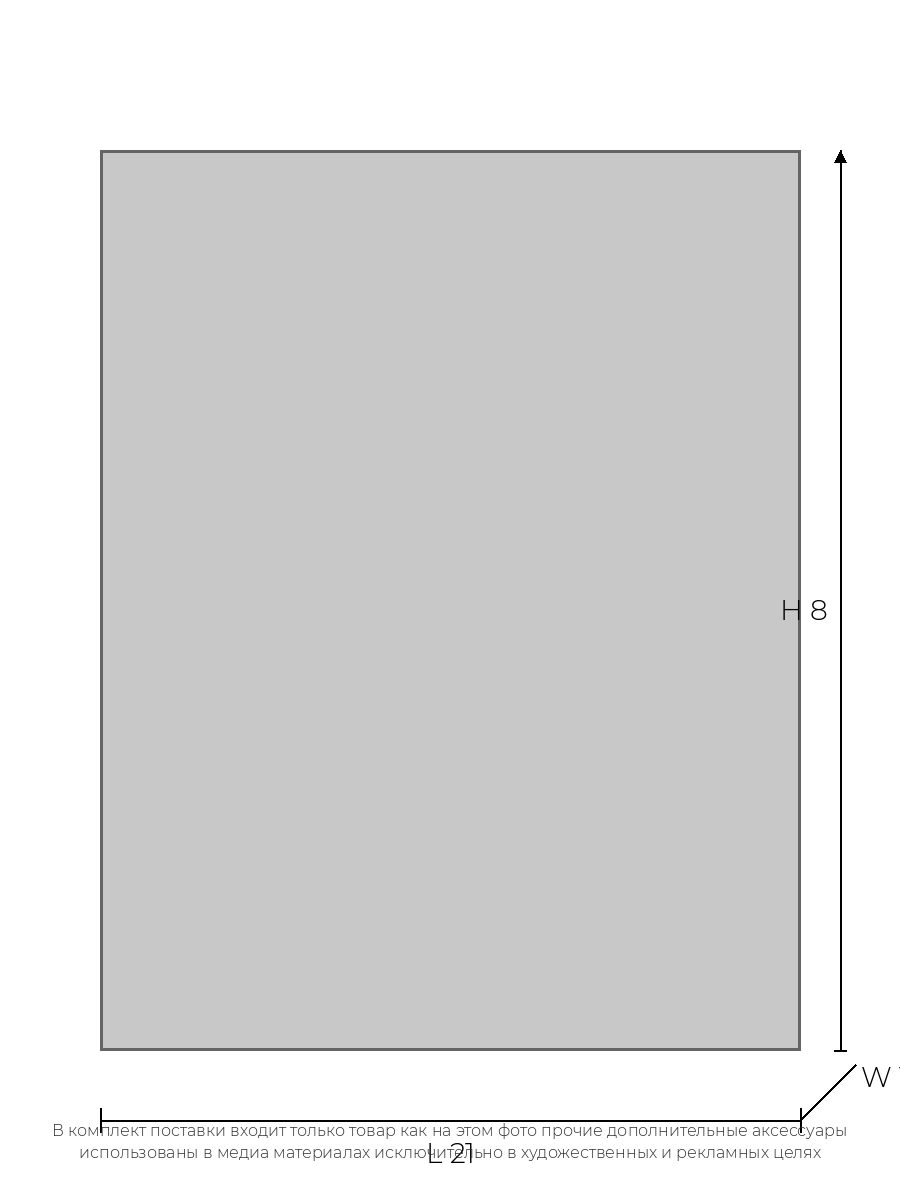
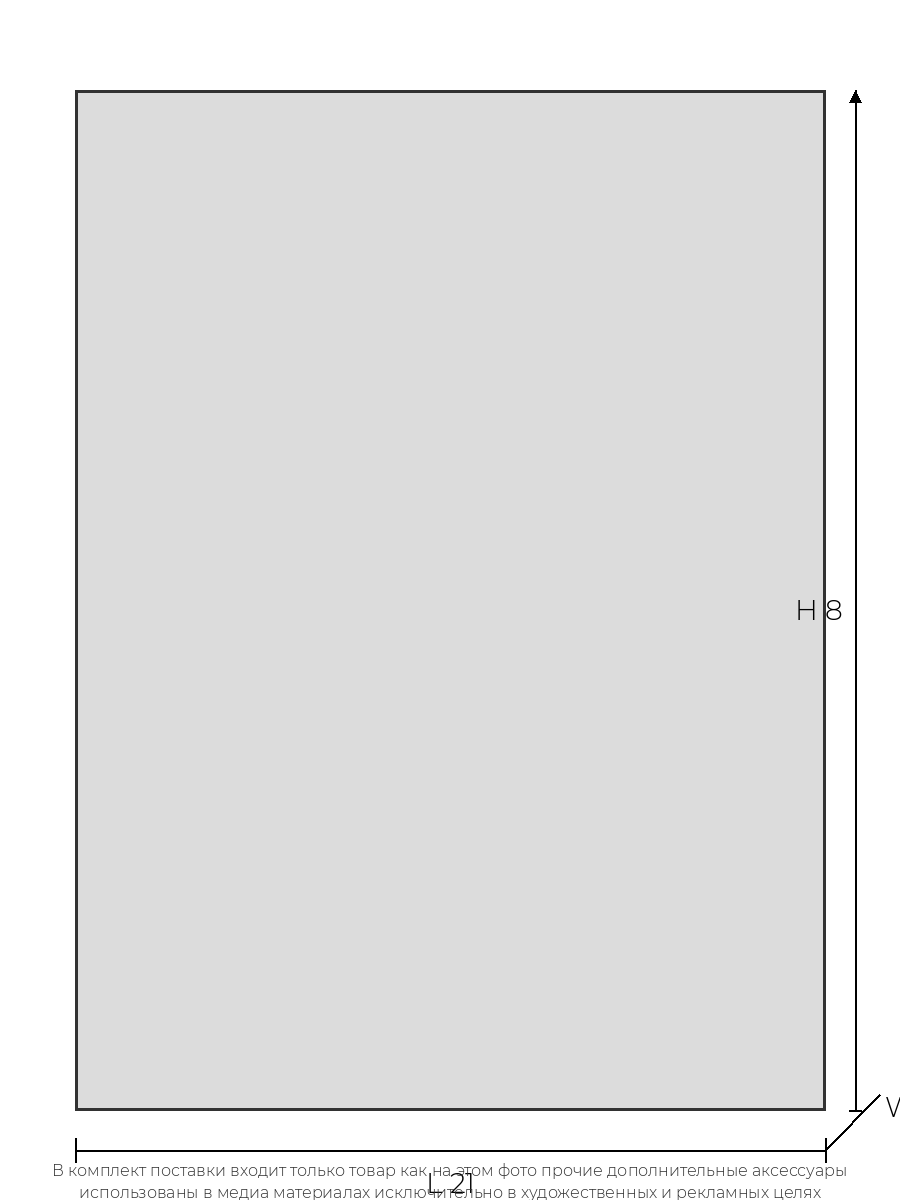
настраиваем размеры

Changed region(s): [[0.0622, 0.0617, 1.0, 1.0]]

diff --git a/processor.py b/processor.py
@@ -8,7 +8,9 @@ import config
 
 def draw_dimensions(canvas, bbox, dimensions, output_path, font_path=None):
     """
-    Рисует размерные линии и текст на готовом холсте.
+    Строго двухэтапная отрисовка:
+    1. Размеры
+    2. Дисклеймер (с гарантированным отступом от самой нижней точки размеров)
     """
     x_min, y_min, x_max, y_max = bbox
     width_obj = x_max - x_min
@@ -29,16 +31,21 @@ def draw_dimensions(canvas, bbox, dimensions, output_path, font_path=None):
     line_width = 2
     tick_len = 12
 
-    # 1. БЕЗОПАСНЫЕ ОТСТУПЫ (не дадут линиям улететь за край)
-    # Максимально возможный отступ справа = 900 - x_max - 40px (резерв)
+    # Трекер самой нижней точки (инициализируем низом объекта)
+    lowest_point = y_max
+
+    # === БЕЗОПАСНЫЕ ОТСТУПЫ ===
     max_margin_h = max(30, w_canvas - x_max - 60)
     margin_h = min(int(width_obj * 0.08), max_margin_h)
 
-    # Максимально возможный отступ снизу = 1200 - y_max - 60px
-    max_margin_w = max(30, h_canvas - y_max - 80)
+    max_margin_w = max(40, h_canvas - y_max - 120)  # Резерв места под дисклеймер
     margin_w = min(int(height_obj * 0.08), max_margin_w)
 
-    # === 1. L (Длина) ===
+    # ==========================================
+    # ЭТАП 1: РИСУЕМ РАЗМЕРЫ
+    # ==========================================
+
+    # --- L (Длина) ---
     l_y = y_max + margin_w
     l_x_start = x_min
     l_x_end = x_max
@@ -57,15 +64,18 @@ def draw_dimensions(canvas, bbox, dimensions, output_path, font_path=None):
 
     l_text = f"L {dimensions['L']}"
     l_bbox = draw.textbbox((0, 0), l_text, font=font_dim)
-    l_text_w = l_bbox[2] - l_bbox[0]
+    l_text_y = l_y + 15
     draw.text(
-        ((l_x_start + l_x_end) // 2 - l_text_w // 2, l_y + 15),
+        ((l_x_start + l_x_end) // 2 - l_bbox[2] // 2, l_text_y),
         l_text,
         fill=color,
         font=font_dim,
     )
 
-    # === 2. H (Высота) ===
+    # Обновляем нижнюю границу (учитываем линию, засечки и текст)
+    lowest_point = max(lowest_point, l_y + tick_len, l_text_y + l_bbox[3])
+
+    # --- H (Высота) ---
     h_x = x_max + margin_h
     h_y_start = y_min
     h_y_end = y_max
@@ -77,52 +87,52 @@ def draw_dimensions(canvas, bbox, dimensions, output_path, font_path=None):
     )
     draw.line([(h_x - 6, h_y_end), (h_x + 6, h_y_end)], fill=color, width=line_width)
 
-    # Текст H с проверкой выхода за правый край
     h_text = f"H {dimensions['H']}"
     h_text_x = h_x + 12
     h_text_y = (h_y_start + h_y_end) // 2 - 8
-
-    # Если текст упирается в край, сдвигаем влево
     h_text_bbox = draw.textbbox((0, 0), h_text, font=font_dim)
+
     if h_text_x + h_text_bbox[2] > w_canvas - 10:
-        h_text_x = h_x - h_text_bbox[2] - 12  # Рисуем слева от линии
+        h_text_x = h_x - h_text_bbox[2] - 12
 
     draw.text((h_text_x, h_text_y), h_text, fill=color, font=font_dim)
+    lowest_point = max(lowest_point, h_text_y + h_text_bbox[3], h_y_end + tick_len)
 
-    # === 3. W (Глубина) ===
+    # --- W (Глубина) ---
     w_start = (l_x_end, l_y)
-
-    # Динамическая длина, но не более 70px, чтобы не вылезти
     w_len = min(70, int(width_obj * 0.15))
     w_dx = int(w_len * 0.8)
-    w_dy = int(w_len * 0.8)  # Вверх
-
+    w_dy = int(w_len * 0.8)
     w_end = (w_start[0] + w_dx, w_start[1] - w_dy)
 
-    # Финальная защита от выхода за холст
     if w_end[0] > w_canvas - 20:
         w_end = (w_canvas - 20, w_end[1])
 
     draw.line([w_start, w_end], fill=color, width=line_width)
-    draw.text(
-        (w_end[0] + 5, w_end[1] - 5), f"W {dimensions['W']}", fill=color, font=font_dim
-    )
 
-    # === 4. Дисклеймер (Безопасная позиция) ===
-    lowest_point = max(l_y + tick_len + 15, w_end[1] + 15)
+    w_text = f"W {dimensions['W']}"
+    w_text_x = w_end[0] + 5
+    w_text_y = w_end[1] - 5
+    draw.text((w_text_x, w_text_y), w_text, fill=color, font=font_dim)
 
-    # Резервируем 80px снизу под текст
-    current_y = min(lowest_point + 60, h_canvas - 80)
+    w_text_bbox = draw.textbbox((0, 0), w_text, font=font_dim)
+    lowest_point = max(lowest_point, w_text_y + w_text_bbox[3])
+
+    # ==========================================
+    # ЭТАП 2: ДИСКЛЕЙМЕР (СТРОГО ПОД РАЗМЕРАМИ)
+    # ==========================================
+    disclaimer_margin = 60
+    current_y = lowest_point + disclaimer_margin
+
+    # Страховка: если места совсем нет, прижимаем к низу с отступом 20px
+    if current_y > h_canvas - 40:
+        current_y = h_canvas - 40
 
     lines = textwrap.wrap(config.DISCLAIMER_TEXT, width=100)
     for line in lines:
         bbox_txt = draw.textbbox((0, 0), line, font=font_text)
         text_width = bbox_txt[2] - bbox_txt[0]
         text_x = (w_canvas - text_width) // 2
-
-        # Если текст упирается в низ, уменьшаем отступ
-        if current_y + bbox_txt[3] > h_canvas - 10:
-            current_y = h_canvas - bbox_txt[3] - 10
 
         draw.text((text_x, current_y), line, fill=(50, 50, 50), font=font_text)
         current_y += 22

diff --git a/utils.py b/utils.py
@@ -30,61 +30,59 @@ def find_images_recursive(directory):
     return valid_files
 
 
-def prepare_image(input_path, target_size=(900, 1200)):
+def prepare_image(input_path, target_size=(900, 1200), content_scale=0.80):
     """
-    1. Загружает изображение.
-    2. Удаляет фон с помощью AI (принудительно CPU).
-    3. Гарантирует белый фон (композиция).
-    4. Масштабирует и центрирует.
+    1. Удаляет фон (AI, CPU)
+    2. Накладывает на белый слой
+    3. Обрезает по границам товара
+    4. Масштабирует товар в content_scale от target_size (оставляя отступы)
+    5. Центрирует и возвращает (холст, bbox)
     """
     img = Image.open(input_path).convert("RGBA")
 
-    # 1. AI удаляет фон. providers=['CPUExecutionProvider'] убирает ошибку CUDA
+    # AI удаление фона (CPU режим)
     img_no_bg = remove(img, providers=["CPUExecutionProvider"])
 
-    # 2. Создаем белый фон и накладываем на него результат
-    # Это гарантирует, что фон будет белым, а не черным/прозрачным
+    # Гарантированный белый фон
     white_bg = Image.new("RGBA", img_no_bg.size, (255, 255, 255))
-    img_clean = Image.alpha_composite(white_bg, img_no_bg)
-
-    # Теперь работаем с RGB (без альфа-канала)
-    img_clean = img_clean.convert("RGB")
+    img_clean = Image.alpha_composite(white_bg, img_no_bg).convert("RGB")
     img_array = np.array(img_clean)
 
-    # 3. Находим границы товара (на белом фоне)
+    # Поиск границ товара
     gray = np.mean(img_array, axis=2)
-    # Ищем всё, что НЕ белое (255)
     mask = gray < 250
     coords = np.column_stack(np.where(mask))
 
     if len(coords) == 0:
-        # Если не нашли (например, товар тоже белый), берем полный размер
-        print(f"    Фон не отделен. Используем полный размер.")
         y_min, x_min, y_max, x_max = 0, 0, img_clean.height, img_clean.width
     else:
         y_min, x_min = coords.min(axis=0)
         y_max, x_max = coords.max(axis=0)
 
-    # 4. Обрезаем лишнее
+    # Обрезка
     product_img = img_clean.crop((x_min, y_min, x_max, y_max))
     orig_w, orig_h = product_img.size
 
-    # 5. Расчет масштаба для 900x1200
+    # 🟢 ВАЖНО: Масштабируем не до 100% холста, а до content_scale (80%)
+    # Это гарантирует ~20% свободного места вокруг товара для линий
     target_w, target_h = target_size
-    scale = min(target_w / orig_w, target_h / orig_h)
+    safe_w = target_w * content_scale
+    safe_h = target_h * content_scale
+
+    scale = min(safe_w / orig_w, safe_h / orig_h)
 
     new_w = int(orig_w * scale)
     new_h = int(orig_h * scale)
 
     resized_product = product_img.resize((new_w, new_h), Image.Resampling.LANCZOS)
 
-    # 6. Создаем финальный белый холст и вставляем товар
+    # Центрирование на полном холсте 900x1200
     canvas = Image.new("RGB", target_size, (255, 255, 255))
     paste_x = (target_w - new_w) // 2
     paste_y = (target_h - new_h) // 2
     canvas.paste(resized_product, (paste_x, paste_y))
 
-    # 7. Координаты товара на холсте
+    # Координаты товара относительно холста
     new_bbox = (paste_x, paste_y, paste_x + new_w, paste_y + new_h)
 
     return canvas, new_bbox

diff --git a/test_processor.py b/test_processor.py
@@ -7,34 +7,26 @@ import processor
 
 
 def test_with_mock():
-    print("🧪 Запуск теста процессора (Mock data)...")
+    print("🧪 Тест процессора с учетом отступов...")
 
-    # 1. Создаем простой тестовый холст
+    # Создаем холст 900x1200
     canvas = Image.new("RGB", (900, 1200), (255, 255, 255))
     d = ImageDraw.Draw(canvas)
 
-    # Рисуем серый прямоугольник для имитации товара
-    # Координаты: слева 100, сверху 150, справа 800, снизу 1050
-    mock_bbox = (100, 150, 800, 1050)
-    d.rectangle(mock_bbox, fill=(200, 200, 200), outline=(100, 100, 100), width=3)
+    # 🟢 Имитируем bbox с отступами ~80px по краям
+    # Как если бы utils.scale=0.80 отработал на вертикальном товаре
+    mock_bbox = (75, 90, 825, 1110)
+
+    # Рисуем "товар" для наглядности
+    d.rectangle(mock_bbox, fill=(220, 220, 220), outline=(50, 50, 50), width=3)
 
     print(f"📐 Mock BBox: {mock_bbox}")
-    print(f"   Ширина объекта: {mock_bbox[2] - mock_bbox[0]} px")
-    print(f"   Высота объекта: {mock_bbox[3] - mock_bbox[1]} px")
+    print(f"   Отступ слева/справа: ~{mock_bbox[0]} px")
+    print(f"   Отступ сверху/снизу: ~{mock_bbox[1]} px")
 
-    # 2. Моковые размеры
     mock_dimensions = {"L": 21, "W": 15, "H": 8}
-
     output_path = "test_output.png"
 
-    # 3. Проверка шрифта
-    print(f"\n🔤 Проверка шрифта: {config.FONT_PATH}")
-    if not os.path.exists(config.FONT_PATH):
-        print(f"   ⚠ Шрифт НЕ найден! Будет использован дефолтный.")
-    else:
-        print(f"   ✅ Шрифт найден")
-
-    # 4. Запуск процессора
     try:
         processor.draw_dimensions(
             canvas=canvas,
@@ -43,9 +35,9 @@ def test_with_mock():
             output_path=output_path,
             font_path=config.FONT_PATH,
         )
-        print(f"\n🎉 Тест успешен! Откройте файл: {output_path}")
+        print(f"\n🎉 Готово! Откройте: {output_path}")
     except Exception as e:
-        print(f"\n❌ Ошибка при отрисовке: {e}")
+        print(f"❌ Ошибка: {e}")
         import traceback
 
         traceback.print_exc()
